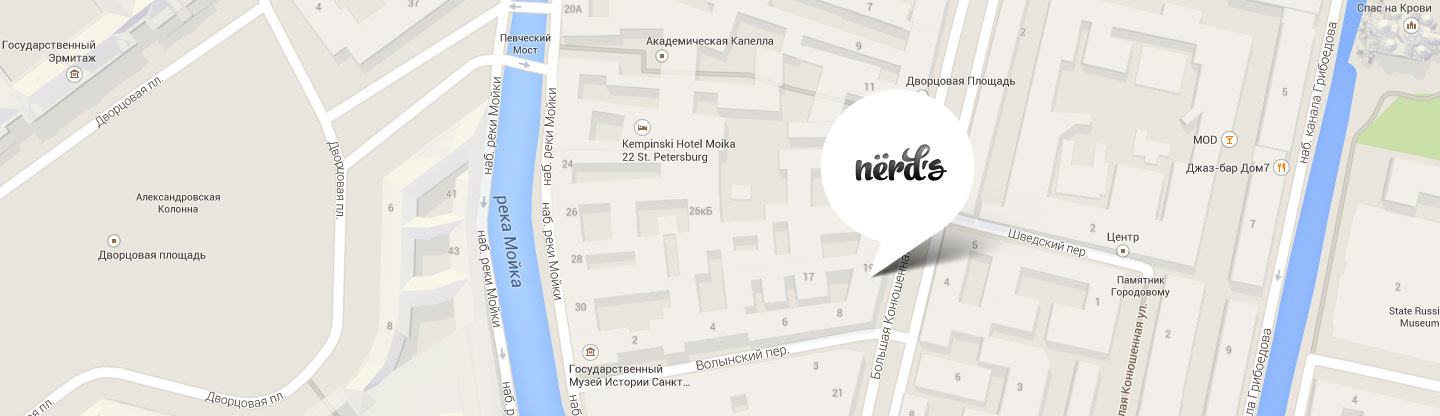
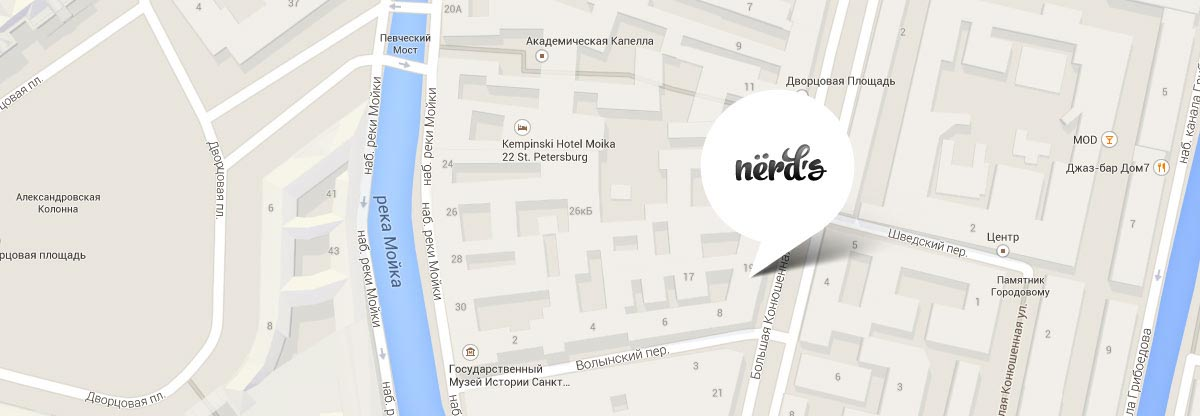
fix_4.9.2

diff --git a/Catalog.html b/Catalog.html
@@ -5,7 +5,7 @@
     <title>Дизайн студия Нёрдс</title>
     <link href="https://fonts.googleapis.com/css?family=Roboto:400,500,700" rel="stylesheet">
     <link href="css/normalize.min.css" rel="stylesheet">
-    <link href="css/style.min.css" rel="stylesheet">
+    <link href="css/style.css" rel="stylesheet">
   </head>
   <body>
     <header class="main-header">
@@ -234,8 +234,10 @@
           <button class="btn contacts-btn">Напишите нам</button>
         </div>
       </div>
-      <iframe class="map-img iframe" allowfullscreen src="https://www.google.com/maps/embed?pb=!1m18!1m12!1m3!1d1998.5991043651586!2d30.320894616097!3d59.938794181876254!2m3!1f0!2f0!3f0!3m2!1i1024!2i768!4f13.1!3m3!1m2!1s0x4696310fca5ba729%3A0xea9c53d4493c879f!2z0JHQvtC70YzRiNCw0Y8g0JrQvtC90Y7RiNC10L3QvdCw0Y8g0YPQuy4sIDE5LCDQodCw0L3QutGCLdCf0LXRgtC10YDQsdGD0YDQsywg0KDQvtGB0YHQuNGPLCAxOTExODY!5e0!3m2!1sru!2sca!4v1520619382243"></iframe>
-      <!--<img class="map-img" src="img/map.jpg" width="1440" height="416" alt="Мы находимся по адресу: 191186, Санкт-Петербург, ул. Б. Конюшенная, д. 19/8">-->
+      <div class="map-img-block">
+        <img class="map-img" src="img/map.jpg" width="1200" height="416" alt="Мы находимся по адресу: 191186, Санкт-Петербург, ул. Б. Конюшенная, д. 19/8">
+        <iframe class="iframe-block no-js" allowfullscreen src="https://www.google.com/maps/embed?pb=!1m18!1m12!1m3!1d1998.5991043651586!2d30.320894616097!3d59.938794181876254!2m3!1f0!2f0!3f0!3m2!1i1024!2i768!4f13.1!3m3!1m2!1s0x4696310fca5ba729%3A0xea9c53d4493c879f!2z0JHQvtC70YzRiNCw0Y8g0JrQvtC90Y7RiNC10L3QvdCw0Y8g0YPQuy4sIDE5LCDQodCw0L3QutGCLdCf0LXRgtC10YDQsdGD0YDQsywg0KDQvtGB0YHQuNGPLCAxOTExODY!5e0!3m2!1sru!2sca!4v1520619382243"></iframe>
+      </div>
     </section>
     <footer class="container main-footer">
       <section class="footer-social">
@@ -302,6 +304,6 @@
         </button>
       </div>
     </section>
-    <script src="js/script.min.js"></script>
+    <script src="js/script.js"></script>
   </body>
 </html>

diff --git a/index.html b/index.html
@@ -5,7 +5,7 @@
     <title>Дизайн студия Нёрдс</title>
     <link href="https://fonts.googleapis.com/css?family=Roboto:400,500,700" rel="stylesheet">
     <link href="css/normalize.min.css" rel="stylesheet">
-    <link href="css/style.min.css" rel="stylesheet">
+    <link href="css/style.css" rel="stylesheet">
   </head>
   <body>
     <header class="main-header">
@@ -163,8 +163,10 @@
           <button class="btn contacts-btn">Напишите нам</button>
         </div>
       </div>
-      <iframe class="map-img iframe" allowfullscreen src="https://www.google.com/maps/embed?pb=!1m18!1m12!1m3!1d1998.5991043651586!2d30.320894616097!3d59.938794181876254!2m3!1f0!2f0!3f0!3m2!1i1024!2i768!4f13.1!3m3!1m2!1s0x4696310fca5ba729%3A0xea9c53d4493c879f!2z0JHQvtC70YzRiNCw0Y8g0JrQvtC90Y7RiNC10L3QvdCw0Y8g0YPQuy4sIDE5LCDQodCw0L3QutGCLdCf0LXRgtC10YDQsdGD0YDQsywg0KDQvtGB0YHQuNGPLCAxOTExODY!5e0!3m2!1sru!2sca!4v1520619382243"></iframe>
-      <!--<img class="map-img" src="img/map.jpg" width="1440" height="416" alt="Мы находимся по адресу: 191186, Санкт-Петербург, ул. Б. Конюшенная, д. 19/8">-->
+      <div class="map-img-block">
+        <img class="map-img" src="img/map.jpg" width="1200" height="416" alt="Мы находимся по адресу: 191186, Санкт-Петербург, ул. Б. Конюшенная, д. 19/8">
+        <iframe class="iframe-block no-js" allowfullscreen src="https://www.google.com/maps/embed?pb=!1m18!1m12!1m3!1d1998.5991043651586!2d30.320894616097!3d59.938794181876254!2m3!1f0!2f0!3f0!3m2!1i1024!2i768!4f13.1!3m3!1m2!1s0x4696310fca5ba729%3A0xea9c53d4493c879f!2z0JHQvtC70YzRiNCw0Y8g0JrQvtC90Y7RiNC10L3QvdCw0Y8g0YPQuy4sIDE5LCDQodCw0L3QutGCLdCf0LXRgtC10YDQsdGD0YDQsywg0KDQvtGB0YHQuNGPLCAxOTExODY!5e0!3m2!1sru!2sca!4v1520619382243"></iframe>
+      </div>
     </section>
     <footer class="container main-footer">
       <section class="footer-social">
@@ -231,6 +233,6 @@
         </button>
       </div>
     </section>
-    <script src="js/script.min.js"></script>
+    <script src="js/script.js"></script>
   </body>
 </html>

diff --git a/css/style.css b/css/style.css
@@ -33,6 +33,10 @@ img {
   height: auto;
 }
 
+.map-img-block .no-js {
+  display: none;
+}
+
 .field-text {
   font-family: inherit;
 }
@@ -635,16 +639,23 @@ img {
   padding: 0px;
 }
 
-.map-img.iframe {
+.iframe-block {
   width: 100%;
+  height: 416px;
   border: none;
+}
+
+.map-img-block {
+  display: flex;
+  justify-content: center;
+  align-items: center;
+  flex-wrap: wrap;
 }
 
 .map-img {
   display: block;
   margin: 0px auto;
-  min-width: 1200px;
-  min-height: 416px;
+  overflow: hidden;
 }
 
 .contacts-block {
@@ -1360,6 +1371,18 @@ img {
   color: rgba(0, 0, 0, 0.3);
 }
 
+
+@keyframes bounce {
+  0% {
+    opacity: 0;
+  }
+
+  100% {
+    opacity: 1.0;
+  }
+}
+
 .modal-show {
   display: block;
+  animation: bounce 1.5s;
 }

diff --git a/js/script.js b/js/script.js
@@ -1,3 +1,6 @@
+  document.querySelector('.iframe-block').classList.remove('no-js');
+  document.querySelector('.map-img').classList.add('no-js');
+
   var link = document.querySelector(".contacts-btn");
 
   var popup = document.querySelector(".modal-window");
@@ -5,6 +8,7 @@
   var close = popup.querySelector(".modal-close-btn");
 
   var login = popup.querySelector("[name=username]");
+
 
   link.addEventListener("click", function (evt) {
     evt.preventDefault();
